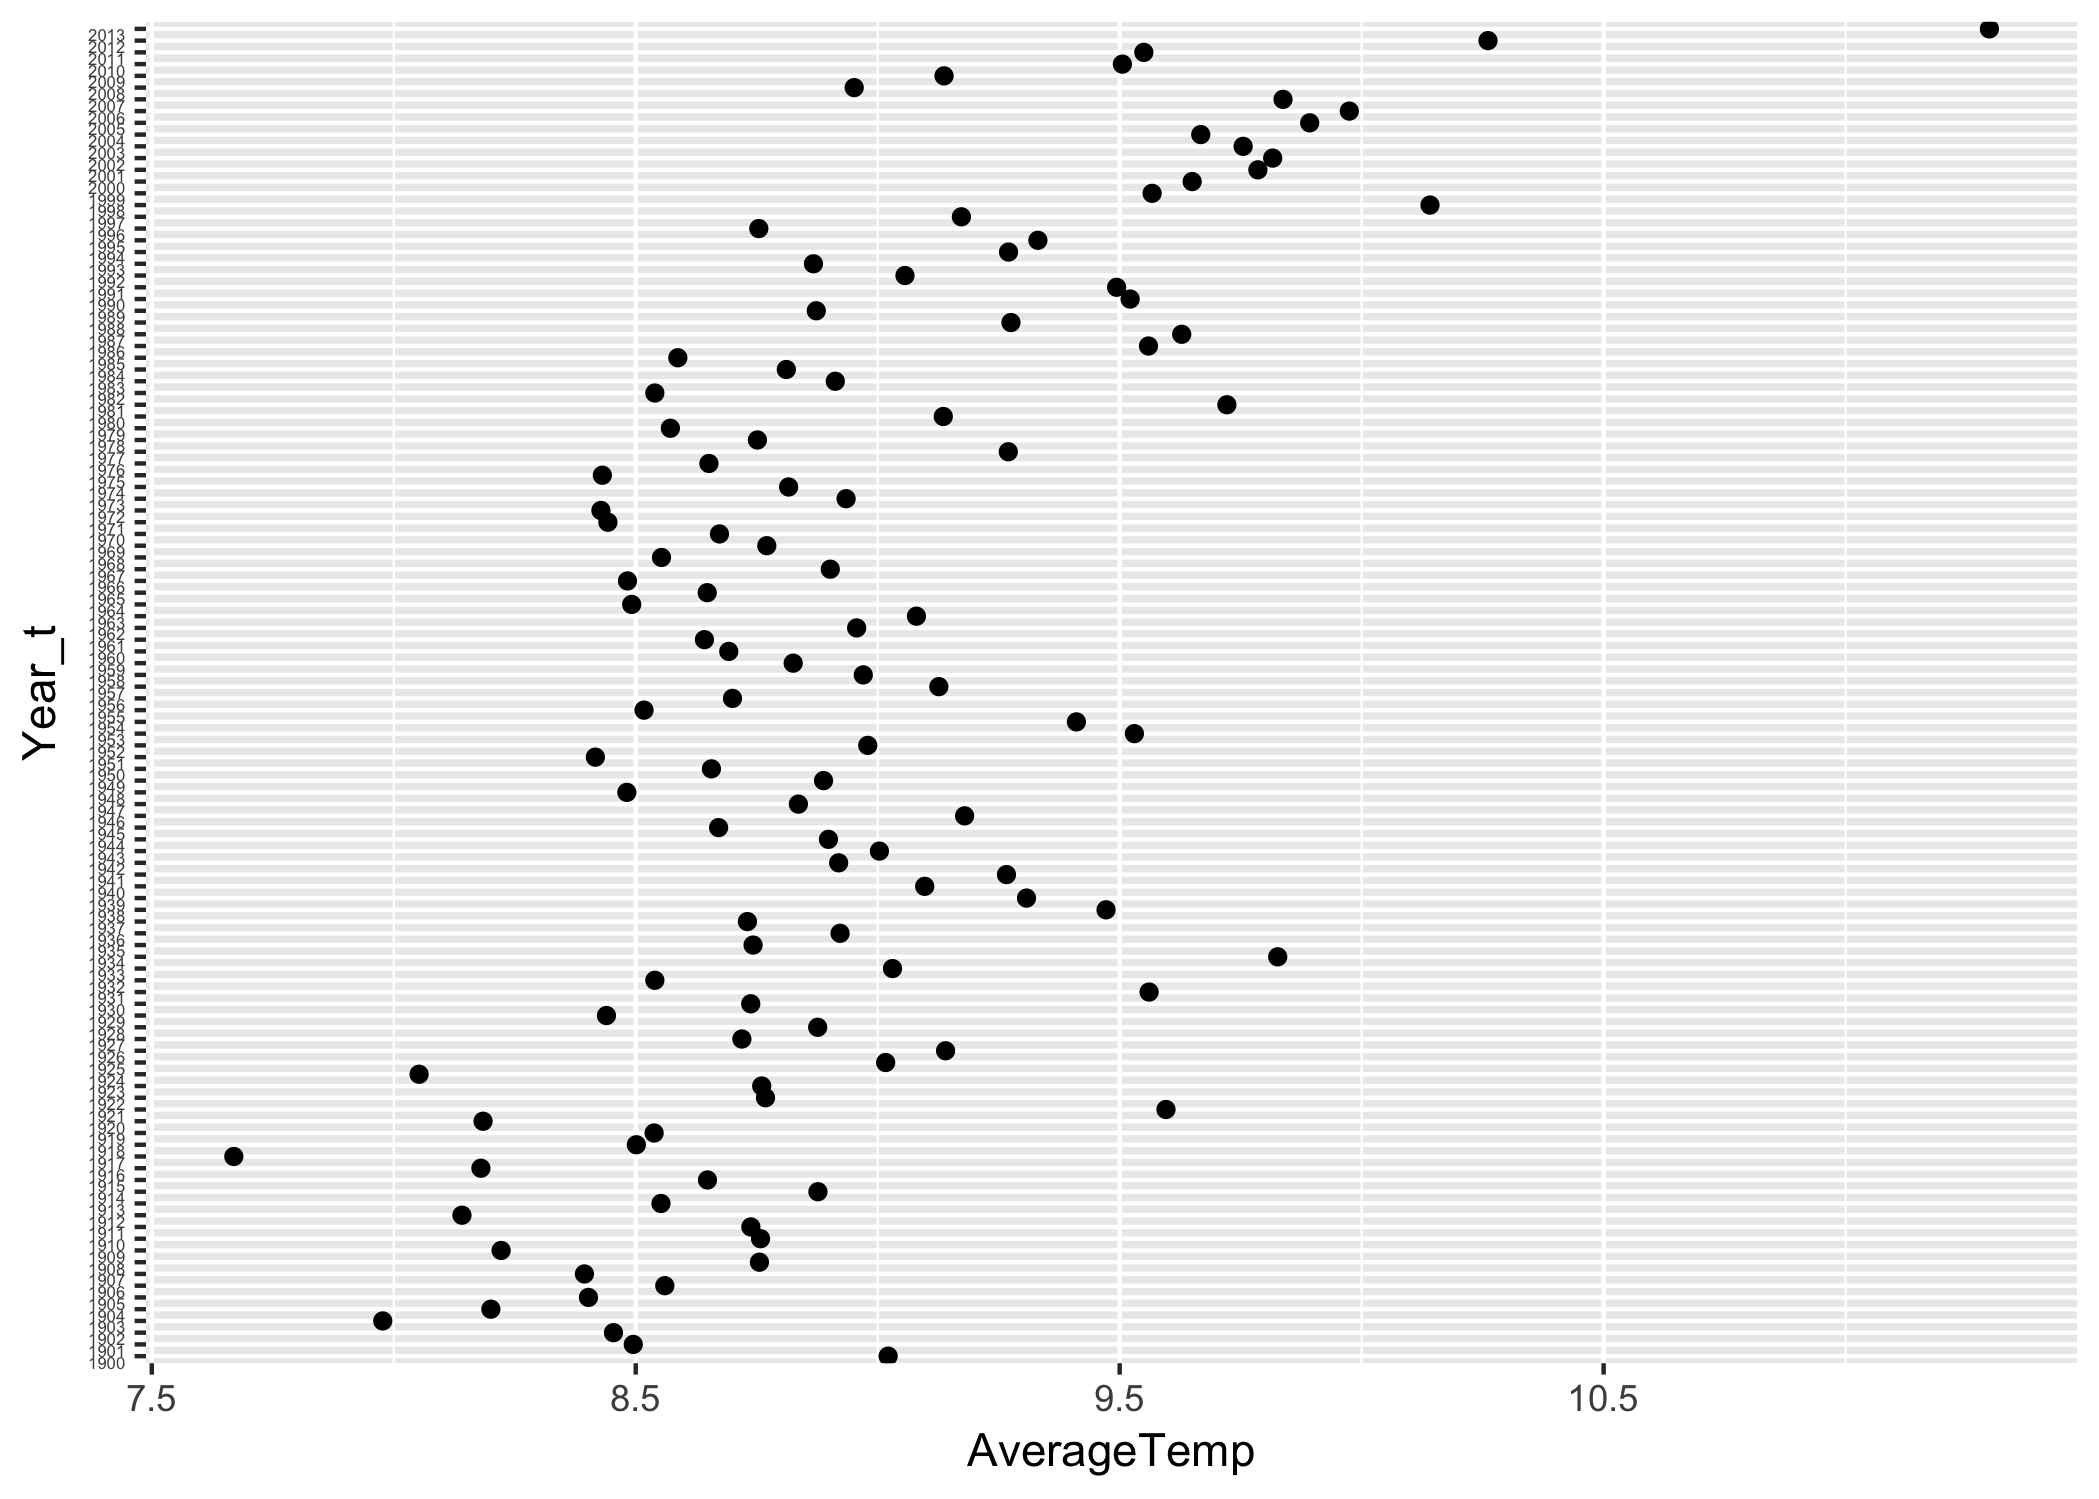
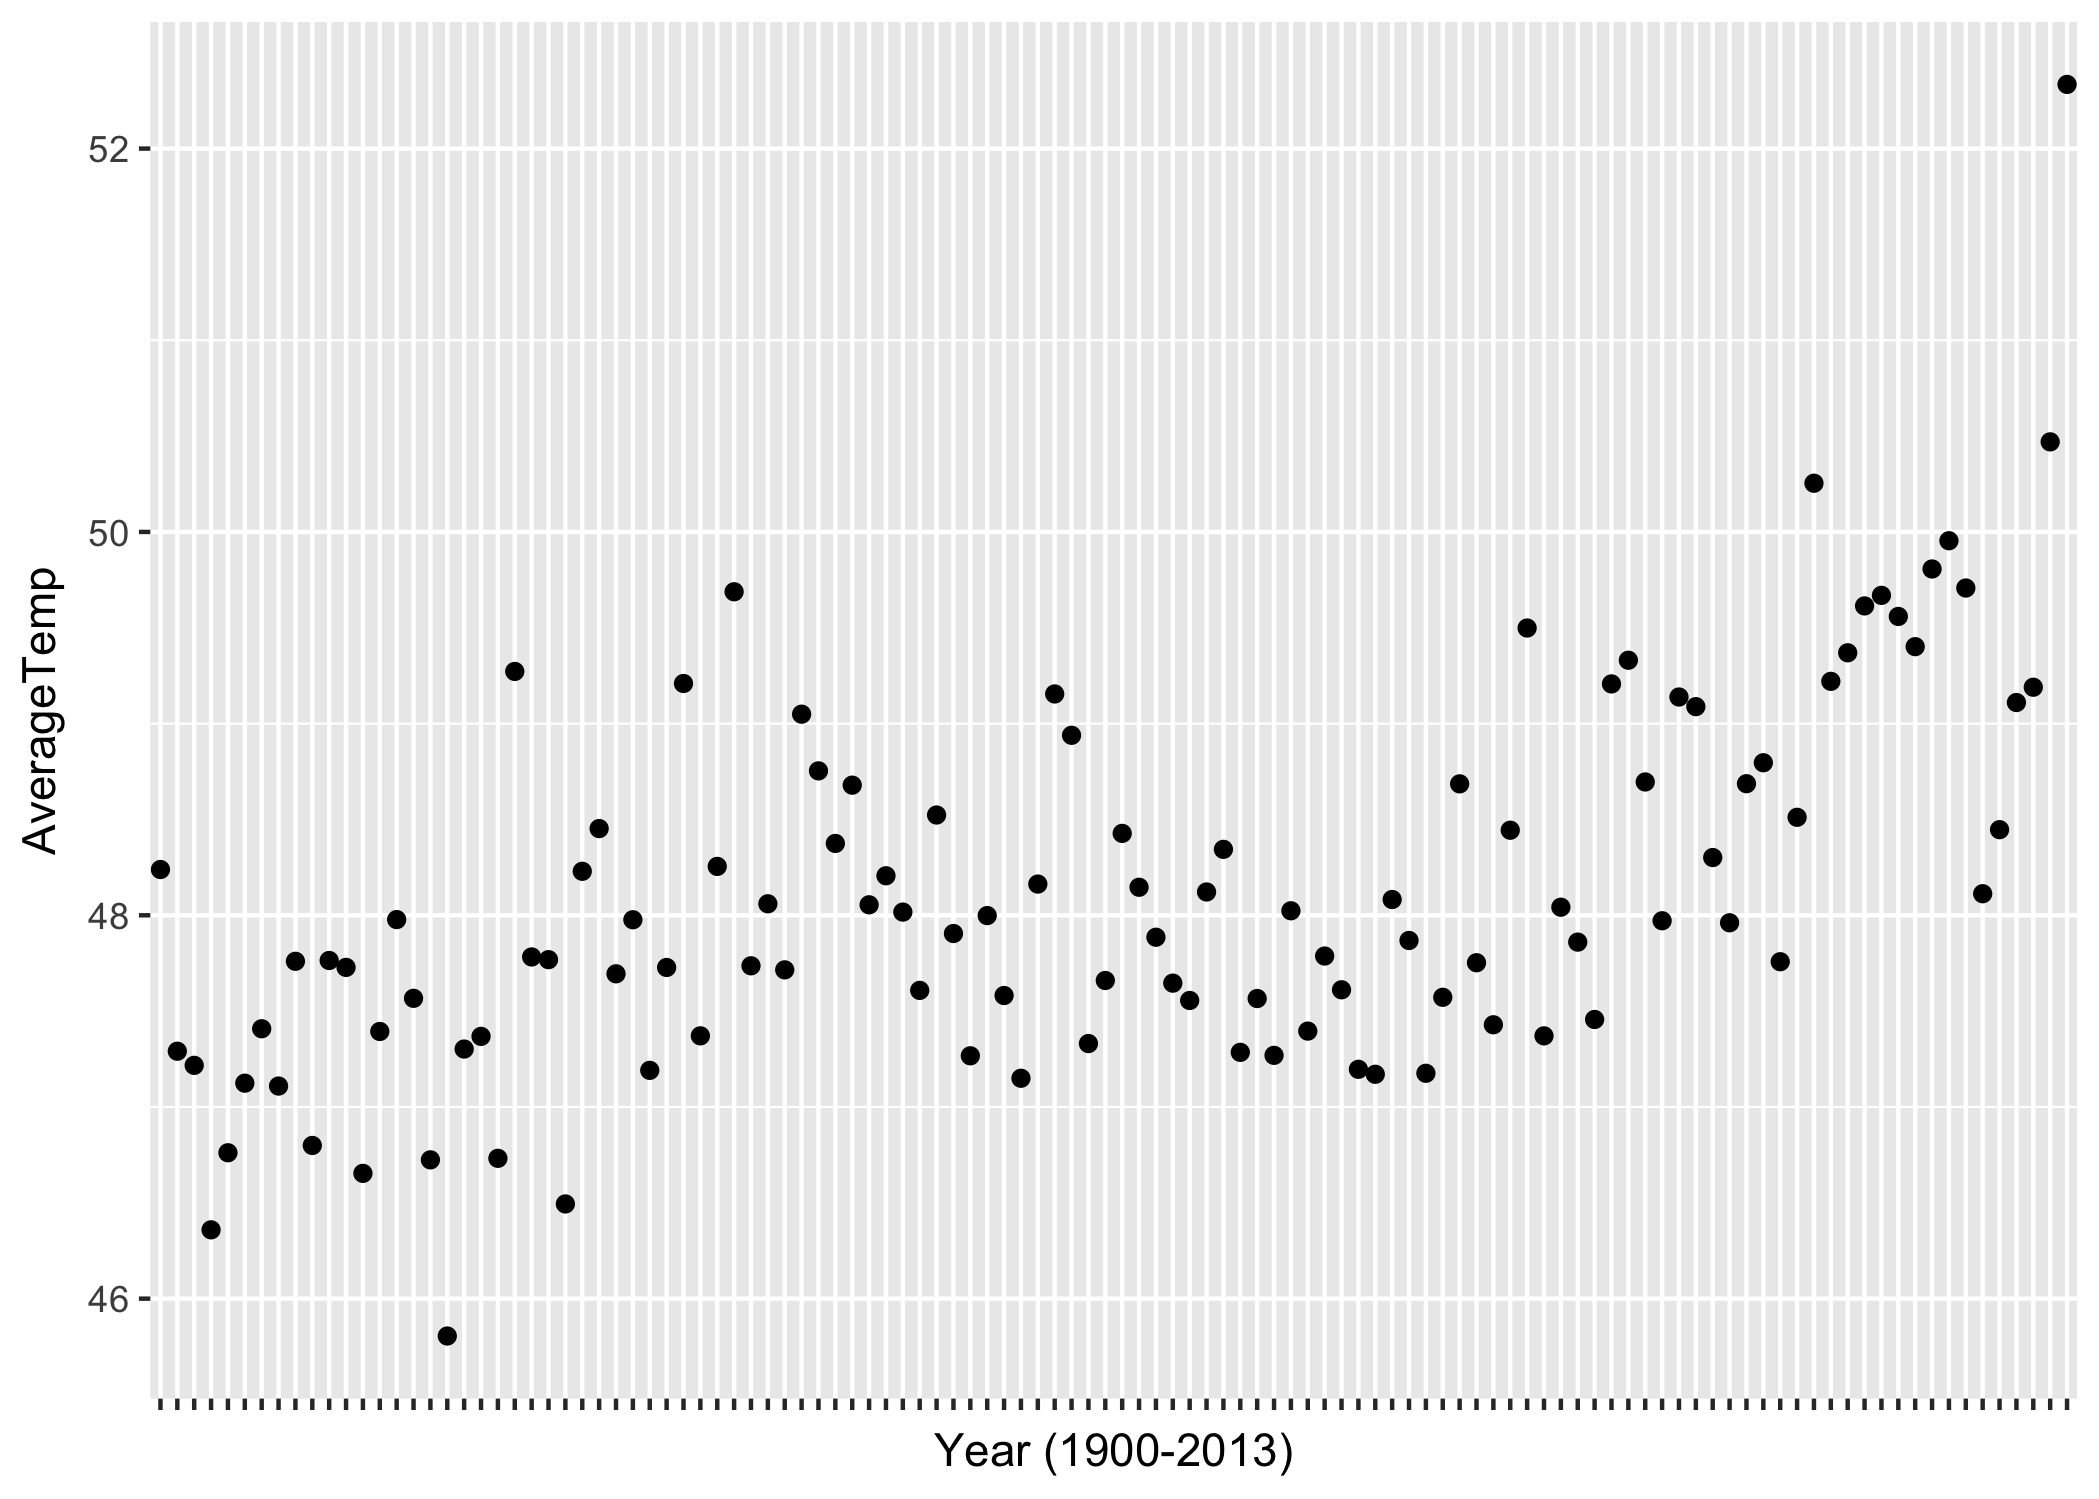
v7

diff --git a/CaseStudy2.md b/CaseStudy2.md
@@ -77,7 +77,7 @@ different sizes of the trees
     ##  $ Var1: Factor w/ 5 levels "3","1","5","2",..: 1 2 3 4 5
     ##  $ Freq: num  108 115 125 156 167
 
-    #Chaging the name of the columns
+    #Changing the name of the columns
     colnames(MedianTree) <- c("Tree", "Median")
     str(MedianTree)
 
@@ -149,7 +149,7 @@ cities
 
 
     #Chaging the name of the columns
-    colnames(MinCountry) <- c("Country", "MinTemp")
+    colnames(MinCountry) <- c("Country", "MinAvgTemp")
 
 
 
@@ -158,7 +158,7 @@ cities
 
 
     #calculate differences
-    Diff_CountryTemp$Diff<- Diff_CountryTemp$MaxTemp - Diff_CountryTemp$MinTemp
+    Diff_CountryTemp$Diff<- Diff_CountryTemp$MaxTemp - Diff_CountryTemp$MinAvgTemp
 
 
     #Sort the data
@@ -169,8 +169,8 @@ cities
     Top20DiffCountry<-Diff_CountryTemp[1:20,]
     #Top20DiffCountry
 
-The top 20 countries with the maximum monthly average temperatures since
-1900 are:
+The top 20 countries with the greatest difference monthly average
+temperatures since 1900 are:
 
     Top20DiffCountry[1:20,1]
 
@@ -206,19 +206,19 @@ Calculating and plotting the average land temperature by year
     ##  $ Monthly.AverageTemp.F          : num  27.4 26.8 36.7 46.6 57.8 ...
     ##  $ year                           : num  1900 1900 1900 1900 1900 1900 1900 1900 1900 1900 ...
 
-    #calculate the average by year
-    UStemp2<-tapply(UStemp$Monthly.AverageTemp , UStemp$year, FUN=mean)
+    #calculate the average by year in Fahrenheit
+    UStemp2<-tapply(UStemp$Monthly.AverageTemp.F , UStemp$year, FUN=mean)
     UStemp2[1]
 
     ##     1900 
-    ## 9.021583
+    ## 48.23885
 
     UStemp2DF = as.data.frame(as.table(UStemp2))
 
     UStemp2DF[1,]
 
     ##   Var1     Freq
-    ## 1 1900 9.021583
+    ## 1 1900 48.23885
 
     #Chaging the name of the columns
     colnames(UStemp2DF) <- c("Year_t", "AverageTemp")
@@ -226,12 +226,12 @@ Calculating and plotting the average land temperature by year
 
     ## 'data.frame':    114 obs. of  2 variables:
     ##  $ Year_t     : Factor w/ 114 levels "1900","1901",..: 1 2 3 4 5 6 7 8 9 10 ...
-    ##  $ AverageTemp: num  9.02 8.49 8.45 7.98 8.2 ...
+    ##  $ AverageTemp: num  48.2 47.3 47.2 46.4 46.8 ...
 
     #plotting the temperatures
 
-    z<-ggplot(UStemp2DF,aes(x=Year_t, y=AverageTemp)) + geom_point() + coord_flip()  +
-      theme(axis.text.y = element_text(vjust = 1, size = 4))
+    z<-ggplot(UStemp2DF,aes(x=Year_t, y=AverageTemp)) + geom_point() + 
+      theme(axis.text.x = element_blank()) +  labs(x="Year (1900-2013)")
 
     #Saving the plot in png format to be displayed in Github
     ggsave("Plot3iib.png")
@@ -247,12 +247,12 @@ Calculating the one year difference of average land temperature by year
     head(df)
 
     ##   Year_t AverageTemp AverageTemp_tM1
-    ## 2   1901    8.494917        9.021583
-    ## 3   1902    8.454000        8.494917
-    ## 4   1903    7.977250        8.454000
-    ## 5   1904    8.200667        7.977250
-    ## 6   1905    8.402333        8.200667
-    ## 7   1906    8.560083        8.402333
+    ## 2   1901    47.29085        48.23885
+    ## 3   1902    47.21720        47.29085
+    ## 4   1903    46.35905        47.21720
+    ## 5   1904    46.76120        46.35905
+    ## 6   1905    47.12420        46.76120
+    ## 7   1906    47.40815        47.12420
 
     #calculate the differences
     df$diffTemYears<-df$AverageTemp - df$AverageTemp_tM1 
@@ -263,14 +263,14 @@ Calculating the one year difference of average land temperature by year
     maxDiffYearsT<-max(df[,4], na.rm = TRUE)
     maxDiffYearsT
 
-    ## [1] 1.411167
+    ## [1] 2.5401
 
-    #extract the conutry that contains the maximum difference
+    #extract the country that contains the maximum difference
     TwoYearMax<-subset(df,diffTemYears==maxDiffYearsT)
     TwoYearMax
 
     ##    Year_t AverageTemp AverageTemp_tM1 diffTemYears
-    ## 22   1921    9.595667          8.1845     1.411167
+    ## 22   1921     49.2722         46.7321       2.5401
 
     #The maximum difference of average land temperature by year
     TwoYearMax_Answer<-"1920-1921"
@@ -304,12 +304,12 @@ temperatures for each major city
     ##  $ Freq: num  21.2 35.4 32.6 28.8 26 ...
 
     #Chaging the name of the columns
-    colnames(MaxCity) <- c("City", "MaxTemp")
+    colnames(MaxCity) <- c("City", "MaxAvgTemp")
     str(MaxCity)
 
     ## 'data.frame':    99 obs. of  2 variables:
-    ##  $ City   : Factor w/ 99 levels "Addis Abeba",..: 1 2 3 4 5 6 7 8 9 10 ...
-    ##  $ MaxTemp: num  21.2 35.4 32.6 28.8 26 ...
+    ##  $ City      : Factor w/ 99 levels "Addis Abeba",..: 1 2 3 4 5 6 7 8 9 10 ...
+    ##  $ MaxAvgTemp: num  21.2 35.4 32.6 28.8 26 ...
 
     MinCity<-tapply(CityTemp$Monthly.AverageTemp , CityTemp$City , FUN=min,na.rm=T)
     MinCity[10]
@@ -331,43 +331,43 @@ temperatures for each major city
     ##  $ Freq: num  14.53 17.32 1.09 12.17 -6.2 ...
 
     #Chaging the name of the columns
-    colnames(MinCity) <- c("City", "MinTemp")
+    colnames(MinCity) <- c("City", "MinAvgTemp")
     str(MinCity)
 
     ## 'data.frame':    99 obs. of  2 variables:
-    ##  $ City   : Factor w/ 99 levels "Addis Abeba",..: 1 2 3 4 5 6 7 8 9 10 ...
-    ##  $ MinTemp: num  14.53 17.32 1.09 12.17 -6.2 ...
+    ##  $ City      : Factor w/ 99 levels "Addis Abeba",..: 1 2 3 4 5 6 7 8 9 10 ...
+    ##  $ MinAvgTemp: num  14.53 17.32 1.09 12.17 -6.2 ...
 
     # merge two data frames by City
     Diff_CityTemp <- merge(MinCity,MaxCity,by="City")
     str(Diff_CityTemp)
 
     ## 'data.frame':    99 obs. of  3 variables:
-    ##  $ City   : Factor w/ 99 levels "Addis Abeba",..: 1 2 3 4 5 6 7 8 9 10 ...
-    ##  $ MinTemp: num  14.53 17.32 1.09 12.17 -6.2 ...
-    ##  $ MaxTemp: num  21.2 35.4 32.6 28.8 26 ...
+    ##  $ City      : Factor w/ 99 levels "Addis Abeba",..: 1 2 3 4 5 6 7 8 9 10 ...
+    ##  $ MinAvgTemp: num  14.53 17.32 1.09 12.17 -6.2 ...
+    ##  $ MaxAvgTemp: num  21.2 35.4 32.6 28.8 26 ...
 
     head(Diff_CityTemp)
 
-    ##          City MinTemp MaxTemp
-    ## 1 Addis Abeba  14.528  21.223
-    ## 2   Ahmadabad  17.320  35.419
-    ## 3      Aleppo   1.086  32.629
-    ## 4  Alexandria  12.171  28.806
-    ## 5      Ankara  -6.195  26.044
-    ## 6     Baghdad   4.236  38.283
+    ##          City MinAvgTemp MaxAvgTemp
+    ## 1 Addis Abeba     14.528     21.223
+    ## 2   Ahmadabad     17.320     35.419
+    ## 3      Aleppo      1.086     32.629
+    ## 4  Alexandria     12.171     28.806
+    ## 5      Ankara     -6.195     26.044
+    ## 6     Baghdad      4.236     38.283
 
     #calculate differences
-    Diff_CityTemp$Diff<- Diff_CityTemp$MaxTemp - Diff_CityTemp$MinTemp
+    Diff_CityTemp$Diff<- Diff_CityTemp$MaxAvgTemp - Diff_CityTemp$MinAvgTemp
     head(Diff_CityTemp)
 
-    ##          City MinTemp MaxTemp   Diff
-    ## 1 Addis Abeba  14.528  21.223  6.695
-    ## 2   Ahmadabad  17.320  35.419 18.099
-    ## 3      Aleppo   1.086  32.629 31.543
-    ## 4  Alexandria  12.171  28.806 16.635
-    ## 5      Ankara  -6.195  26.044 32.239
-    ## 6     Baghdad   4.236  38.283 34.047
+    ##          City MinAvgTemp MaxAvgTemp   Diff
+    ## 1 Addis Abeba     14.528     21.223  6.695
+    ## 2   Ahmadabad     17.320     35.419 18.099
+    ## 3      Aleppo      1.086     32.629 31.543
+    ## 4  Alexandria     12.171     28.806 16.635
+    ## 5      Ankara     -6.195     26.044 32.239
+    ## 6     Baghdad      4.236     38.283 34.047
 
     #Sort the data
     Diff_CityTemp<-Diff_CityTemp[with(Diff_CityTemp, order(-Diff)), ]
@@ -377,8 +377,8 @@ temperatures for each major city
     Top20DiffCity<-Diff_CityTemp[1:20,]
     #Top20DiffCity
 
-The top 20 cities with the maximum monthly average temperatures since
-1900 are:
+The top 20 cities with the greatest difference monthly average
+temperatures since 1900 are:
 
     Top20DiffCity[1:20,1]
 
@@ -393,48 +393,57 @@ Plotting the top 20 countries and cities with the maximum monthly
 average temperatures since 1900:
 
     ##Plot the top 20 Countries
-    library(ggplot2)
-    plot1<-ggplot(Top20DiffCountry, aes(x=`Country`, y=`Diff`)) +
-      geom_point(color="blue")  +
-      coord_flip() +
-      theme_bw() +
-      theme(
-        panel.grid.major = element_blank(),
-        panel.grid.minor = element_blank(),
-        panel.border = element_blank(),
-        axis.line = element_line(color = 'black'),
-        panel.background = element_blank(),
-        axis.title.y = element_blank())
+    ##visualize(i)
+    ##visualize(i)
+    Top20DiffCountry2 <- Top20DiffCountry[order(Top20DiffCountry[,4], decreasing=FALSE),]
+    attach(Top20DiffCountry2)
+    barplot(Diff, 
+            names.arg = substr(Country,0,5), 
+            horiz = TRUE,
+            main  = 'Difference in Average Max and Min Temperature',
+            las=1,
+            col=ifelse(Diff > 45, 
+                       "red", 
+                       ifelse(Diff > 40, 
+                              "Orange", 
+                              ifelse(Diff > 35,
+                                     "Yellow",
+                                     "Green")
+                              )
+                       )
+            )
+    legend("bottomright", legend = c(">45", "40-45","35-40","<35"), fill=c("red", "Orange", "Yellow", "Green"))
+
+![](CaseStudy2_files/figure-markdown_strict/unnamed-chunk-12-1.png)
+
+    detach(Top20DiffCountry2)
+
 
 
 
 
 
     ##Plot the top 20 citites
-    library(ggplot2)
-    plot2<-ggplot(Top20DiffCity, aes(x=`City`, y=`Diff`)) +
-      geom_point(color="blue")  +
-      coord_flip() +
-      theme_bw() +
-      theme(
-        panel.grid.major = element_blank(),
-        panel.grid.minor = element_blank(),
-        panel.border = element_blank(),
-        axis.line = element_line(color = 'black'),
-        panel.background = element_blank(),
-        axis.title.y = element_blank())
+    ##visualize(i)
+    Top20DiffCity2 <- Top20DiffCity[order(Top20DiffCity[,4], decreasing=FALSE),]
+    attach(Top20DiffCity2)
+    barplot(Diff, 
+            names.arg = substr(City,0,5), 
+            horiz = TRUE,
+            main  = 'Difference in Average Max and Min Temperature',
+            las=1,
+            col=ifelse(Diff > 45, 
+                       "red", 
+                       ifelse(Diff > 40, 
+                              "Orange", 
+                              ifelse(Diff > 35,
+                                     "Yellow",
+                                     "Green")
+                              )
+                       )
+            )
+    legend("bottomright", legend = c(">45", "40-45","35-40","<35"), fill=c("red", "Orange", "Yellow", "Green"))
 
+![](CaseStudy2_files/figure-markdown_strict/unnamed-chunk-12-2.png)
 
-    #Saving the plot in png format to be displayed in Github
-    ggsave("plot1.png")
-
-    ## Saving 7 x 5 in image
-
-    ggsave("plot2.png")
-
-    ## Saving 7 x 5 in image
-
-![*Fig. * TOP 20 Countries with highest change in
-temperature](plot1.png)
-
-![*Fig. * TOP 20 Cities with highest change in temperature](plot2.png)
+    detach(Top20DiffCity2)
